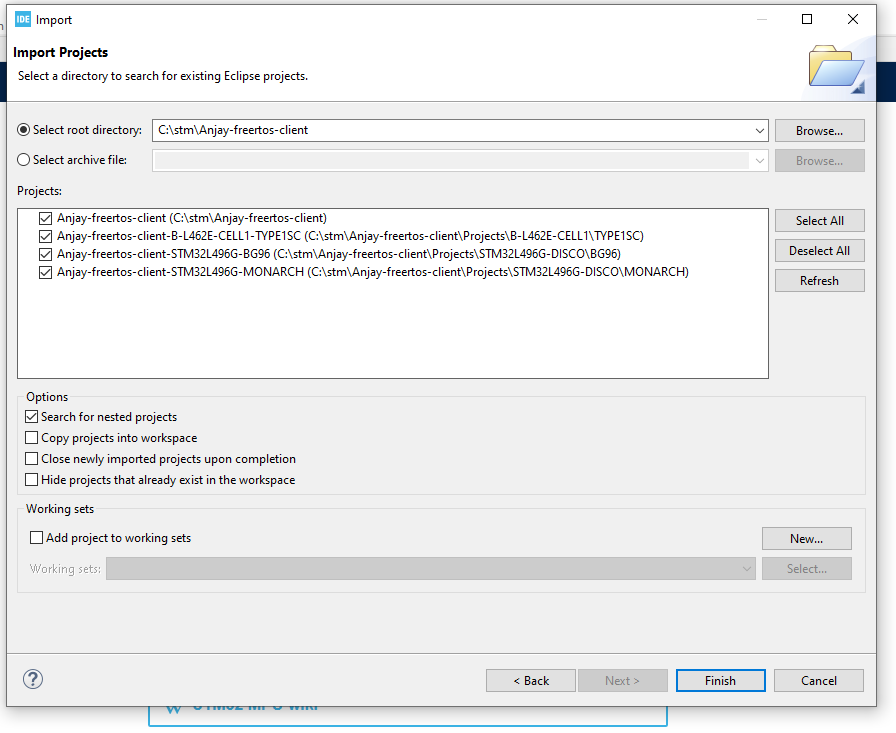
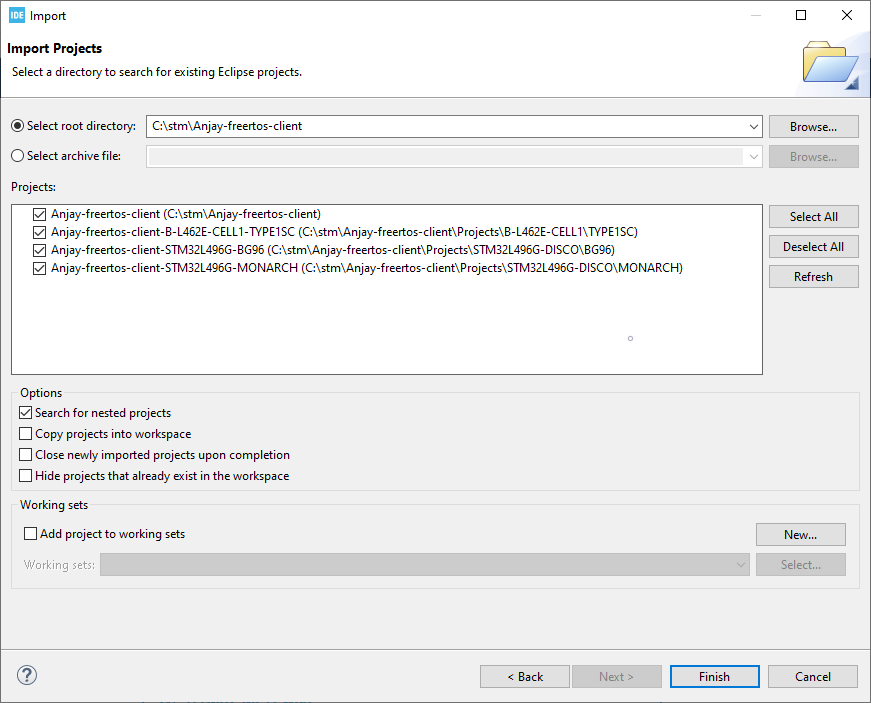
fixes to imgs and text

Changed region(s): [[0.0, 0.0, 1.0, 1.0]]

diff --git a/docs/Anjay_ST_integration/STM32L496G-DISCO-MONARCH.md b/docs/Anjay_ST_integration/STM32L496G-DISCO-MONARCH.md
@@ -21,12 +21,13 @@ Enter the command line interface on your machine and paste the following command
 
 0. Connect the STM32L496G-DISCO/MONARCH board to a USB port of your machine.
 0. Go to the STM32CubeIDE.
-0. Import the project cloned in the previous step to your workspace.
+0. Import the project cloned in the previous step to your workspace:
     - From the navigation bar, select **File** and click **Import**.
     - From the **General** list, select **Existing Projects into Workspace** and click **Next**.
     - In **Select root directory**, indicate the catalog containing the cloned Anjay freeRTOS client repository.
-    - The the **Projects** field, select **Anjay-freertos-client-STM32L496G-MONARCH** and click **Finish**.
-0. In the Project Explorer, navigate to the **Anjay-freertos-client-STM32L496G-MONARCH** project
+    - In the **Projects** field, select **Anjay-freertos-client-STM32L496G-MONARCH** and click **Finish**.
+    ![Import project](images/import.PNG "Import project")
+0. In the Project Explorer, navigate to the **Anjay-freertos-client-STM32L496G-MONARCH** project:
     - Right-click on the project name and select **Build Project**. The build should take less than one minute to complete.
     - After the build is finished, right-click on the project name, select **Run As** and click the **1 STM32 Cortex-M C/C++ Application** option.
         - In the **Lauch Configuration Selection**, choose the **Anjay-freertos-client-STM32L496G-MONARCH** option and click **OK**.
@@ -39,7 +40,8 @@ Enter the command line interface on your machine and paste the following command
 
     ``Press any key in 3 seconds to enter config menu...``
 
-3. Press any key and in the configuration menu, change the default credentials to your data by following the instructions presented in the program and save it .
+3. Press any key and in the configuration menu, change the default credentials to your data by following the instructions presented in the program and save it.
+   ![Client configuration](images/config_menu.png "Client configuration")
 
 ## Step 4: Connecting to the LwM2M Server
 

diff --git a/docs/Anjay_ST_integration/STM32L496G-DISCOBG96.md b/docs/Anjay_ST_integration/STM32L496G-DISCOBG96.md
@@ -21,12 +21,13 @@ Enter the command line interface on your machine and paste the following command
 
 0. Connect the STM32L496G-DISCO board to a USB port of your machine.
 0. Go to the STM32CubeIDE.
-0. Import the project cloned in the previous step to your workspace.
+0. Import the project cloned in the previous step to your workspace:
     - From the navigation bar, select **File** and click **Import**.
     - From the **General** list, select **Existing Projects into Workspace** and click **Next**.
     - In **Select root directory**, indicate the catalog containing the cloned Anjay freeRTOS client repository.
-    - The the **Projects** field, select **Anjay-freertos-client-STM32L496G-BG96** and click **Finish**.
-0. In the Project Explorer, navigate to the **Anjay-freertos-client-STM32L496G-BG96** project
+    - In the **Projects** field, select **Anjay-freertos-client-STM32L496G-BG96** and click **Finish**.
+    ![Import project](images/import.PNG "Import project")
+0. In the Project Explorer, navigate to the **Anjay-freertos-client-STM32L496G-BG96** project:
     - Right-click on the project name and select **Build Project**. The build should take less than one minute to complete.
     - After the build is finished, right-click on the project name, select **Run As** and click the **1 STM32 Cortex-M C/C++ Application** option.
         - In the **Lauch Configuration Selection**, choose the **Anjay-freertos-client-STM32L496G-BG96** option and click **OK**.
@@ -40,6 +41,7 @@ Enter the command line interface on your machine and paste the following command
     ``Press any key in 3 seconds to enter config menu...``
 
 3. Press any key and in the configuration menu, change the default credentials to your data by following the instructions presented in the program and save it .
+   ![Client configuration](images/config_menu.png "Client configuration"){:style="float: left;margin-right: 1177px;margin-top: 17px;"}
 
 ## Step 4: Connecting to the LwM2M Server
 

diff --git a/docs/Anjay_ST_integration/B-L462E-CELL1-TYPE1SC.md b/docs/Anjay_ST_integration/B-L462E-CELL1-TYPE1SC.md
@@ -21,12 +21,13 @@ Enter the command line interface on your machine and paste the following command
 
 0. Connect the B-L462E-CELL1/TYPE1SC board to a USB port of your machine.
 0. Go to the STM32CubeIDE.
-0. Import the project cloned in the previous step to your workspace.
+0. Import the project cloned in the previous step to your workspace:
     - From the navigation bar, select **File** and click **Import**.
     - From the **General** list, select **Existing Projects into Workspace** and click **Next**.
     - In **Select root directory**, indicate the catalog containing the cloned Anjay freeRTOS client repository.
-    - The the **Projects** field, select **Anjay-freertos-client-B-L462E-CELL1-TYPE1SC** and click **Finish**.
-0. In the Project Explorer, navigate to the **Anjay-freertos-client-B-L462E-CELL1-TYPE1SC** project
+    - In the **Projects** field, select **Anjay-freertos-client-B-L462E-CELL1-TYPE1SC** and click **Finish**.
+    ![Import project](images/import.PNG "Import project")
+0. In the Project Explorer, navigate to the **Anjay-freertos-client-B-L462E-CELL1-TYPE1SC** project:
     - Right-click on the project name and select **Build Project**. The build should take less than one minute to complete.
     - After the build is finished, right-click on the project name, select **Run As** and click the **1 STM32 Cortex-M C/C++ Application** option.
         - In the **Lauch Configuration Selection**, choose the **Anjay-freertos-client-B-L462E-CELL1-TYPE1SC** option and click **OK**.
@@ -40,6 +41,7 @@ Enter the command line interface on your machine and paste the following command
     ``Press any key in 3 seconds to enter config menu...``
 
 3. Press any key and in the configuration menu, change the default credentials to your data by following the instructions presented in the program and save it .
+      ![Client configuration](images/config_menu.png "Client configuration")
 
 ## Step 4: Connecting to the LwM2M Server
 
